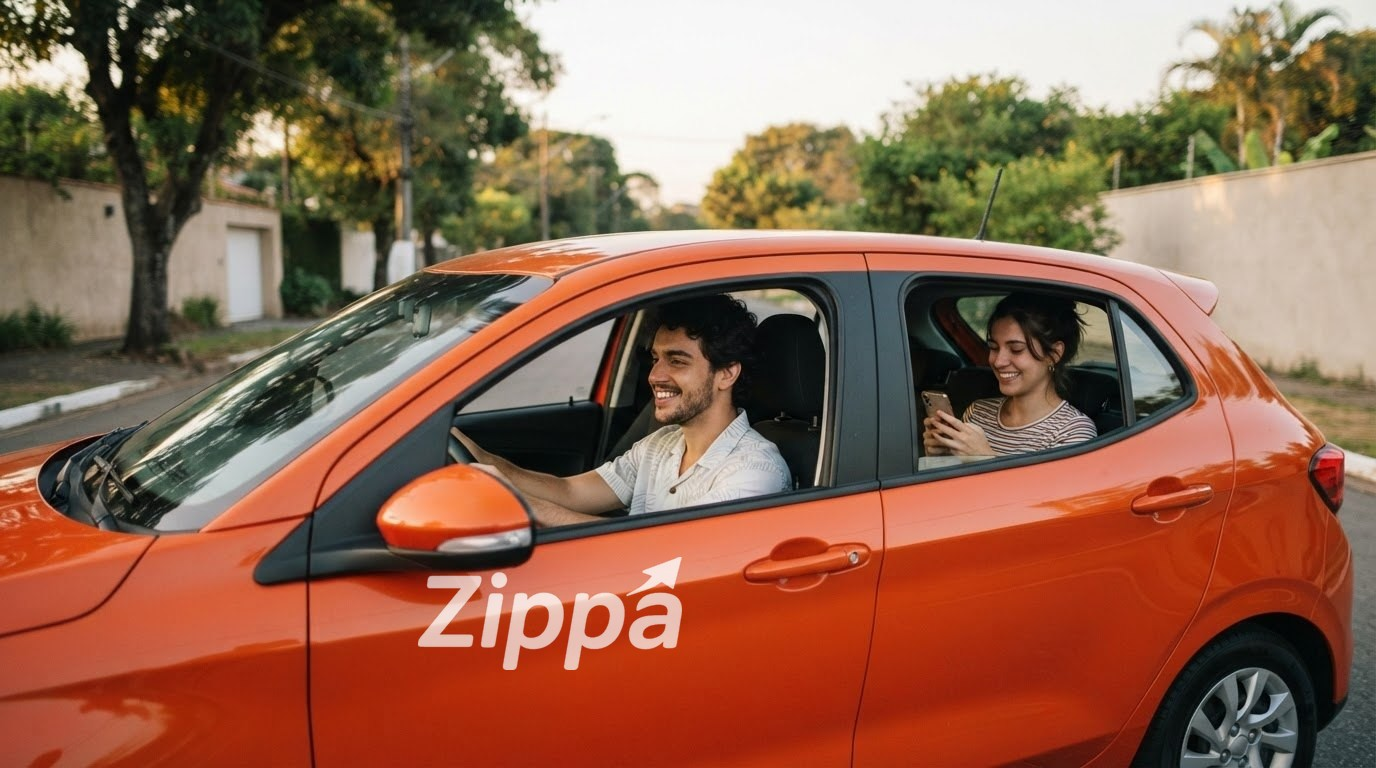
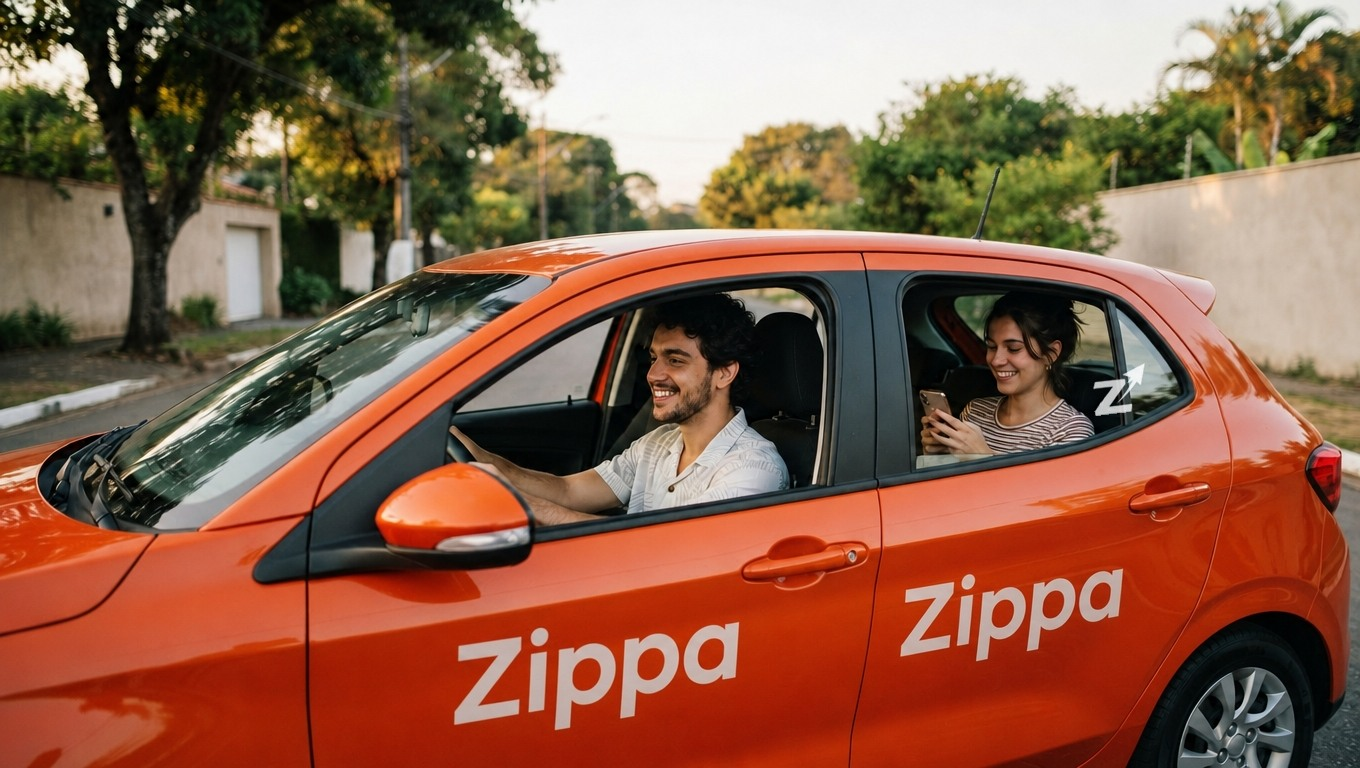
feat(home): kit de marca no carro - Zippa nas duas portas e marca Z no vidro do passageiro

diff --git a/index.html b/index.html
@@ -609,7 +609,7 @@
 
     <!-- Slide 1 - Mobilidade -->
     <div class="hero-slide active" aria-roledescription="slide" aria-label="1 de 3: Zippa Mobilidade">
-      <img class="hero-slide-img" src="images/hero-mobilidade.jpg?v=2" alt="Motorista e passageira da Zippa em um carro laranja em rua arborizada da cidade" width="1376" height="768" fetchpriority="high" decoding="async" />
+      <img class="hero-slide-img" src="images/hero-mobilidade.jpg?v=3" alt="Motorista e passageira da Zippa em um carro laranja em rua arborizada da cidade" width="1376" height="768" fetchpriority="high" decoding="async" />
       <div class="hero-inner">
         <div class="hero-content">
           <span class="hero-tag">Zippa Mobilidade</span>
